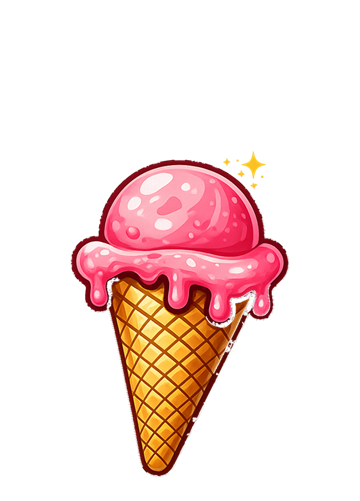
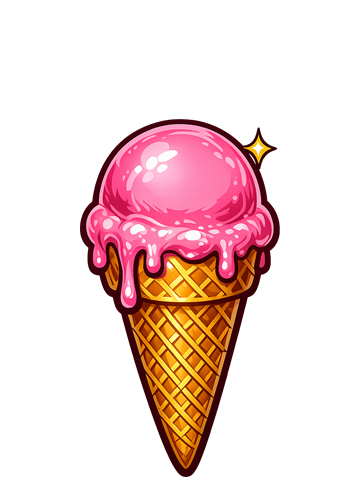
Regenerate waffle renders without the white sticker keyline
The three waffle-cone hero images had a white "sticker" die-cut keyline
baked around the whole silhouette (inherited from the original tier art's
sticker style), which read as a grey border on the pink builder stage.
The cup and sundae-glass renders never had it. Pixel-cleanup couldn't
remove it without damaging the art, so the waffle renders were regenerated
from scratch (ChatGPT, matching the cup/sundae style, explicitly no keyline)
then white-background-removed and normalized to the builder's framing
(width 200, bottom-aligned at y476 on the 360x501 stage). Crown anchors in
SundaeBuilder updated to the new top-scoop positions.

Changed region(s): [[0.1833, 0.2395, 0.825, 0.9581]]

diff --git a/src/components/SundaeBuilder.tsx b/src/components/SundaeBuilder.tsx
@@ -25,9 +25,9 @@ const HEROES: Record<string, Hero> = {
   "cup-1": { src: cup1, cx: 52.5, cy: 50.8 },
   "cup-2": { src: cup2, cx: 50.7, cy: 43.2 },
   "cup-3": { src: cup3, cx: 50.2, cy: 32.8 },
-  "waffle-1": { src: waffle1, cx: 52.5, cy: 30.1 },
-  "waffle-2": { src: waffle2, cx: 51.4, cy: 19.1 },
-  "waffle-3": { src: waffle3, cx: 50.9, cy: 9.2 },
+  "waffle-1": { src: waffle1, cx: 50.3, cy: 23.8 },
+  "waffle-2": { src: waffle2, cx: 48.6, cy: 14.2 },
+  "waffle-3": { src: waffle3, cx: 48.3, cy: 9.4 },
   "coupe-1": { src: coupe1, cx: 51.4, cy: 46.4 },
   "coupe-2": { src: coupe2, cx: 51.1, cy: 41.0 },
   "coupe-3": { src: coupe3, cx: 50.4, cy: 33.6 },
